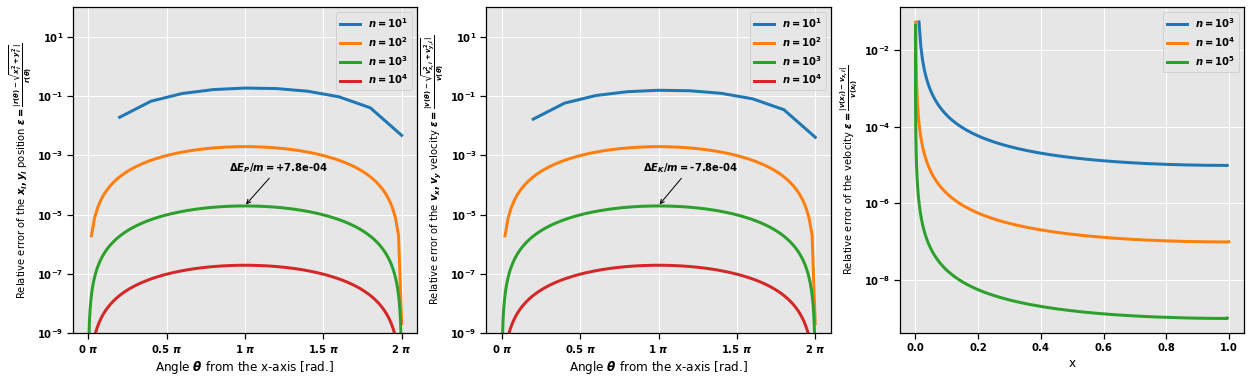
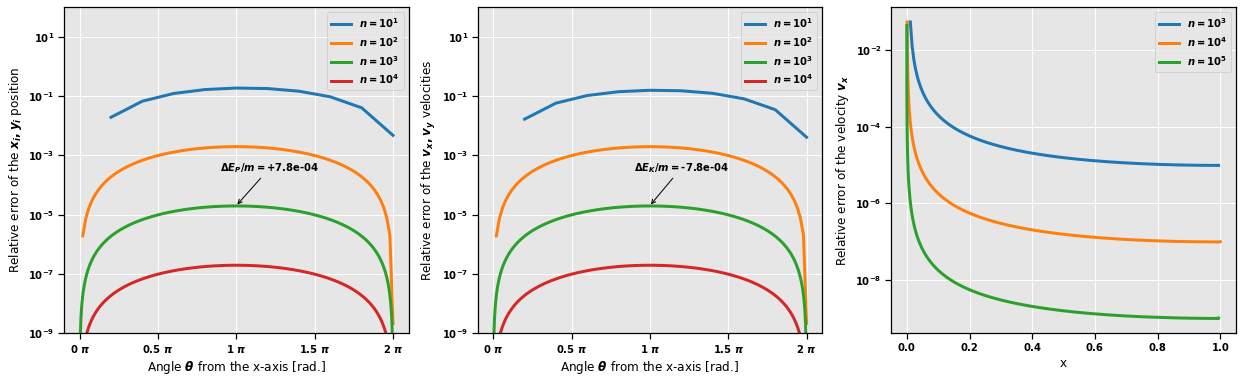
report done

diff --git a/project3/report/project3.tex b/project3/report/project3.tex
@@ -43,30 +43,33 @@
 % - What have you done to solve this 
 % - Main Results 
 % - The implications
+Analytic solutions to $n$-body gravitational problems are only possible in rare exceptions or with simplifications for $n \ge 3$. To study these problems we therefore need efficient and accurate numerical methods. In this report we investigate the Velocity Verlet method, which has a truncation error $O(h^3)$, and which, with 7 FLOPs per axis and iteration, is numerically efficient. Crucially, this method is also symplectic (energy conserving). We develop an object-oriented solver which we verify by reproducing the orbits of the Solar System, and use it to conduct numerical experiments. 
 
+For circular orbits, the Velocity Verlet method gives reliable results for $10^2$-$10^3$ integration points per rotation, while for elliptic orbits, $10^3$-$10^4$ should be used. Mechanical energy and angular momentum are conserved with high accuracy, with relative error often down to $10^{-6}$ if the orbits are stable. However, accuracy is dependent on angular and radial position, and is different for position and velocity. Conservation of energy and angular momentum serves as a reliable indicator of numerical stability.
 
+The numerical experiments in this report show Earth's fluctuating orbit when simulated in a Sun-Earth-Jupiter system with various masses of Jupiter. With Jupiter at 100 times it's actual mass, Earth's orbit is stable, but fluctuates in a band approximately 0.15-0.20 AU wide. At 1000 times its actual mass, Earth leaves its orbit around the Sun and starts to swirl around Jupiter. We also show that the model correctly predicts orbit eccentricity, and that closed elliptic orbits are a feature of the inverse-square radius to force relationship in Newton's gravitational law. Conservation of mechanical energy and angular momentum is still preserved in this alternate domain, however. Our model also correctly reproduces the perihelion precession of Mercury at 43 arc seconds per century when we introduce a general relativistic correction to Newton's gravitational law. This requires a very high accuracy, at $10^7$ integration points per rotation. The error of the reference calculation without the general relativistic error is 0.22 arc seconds per century.
+
+Visit my GitHub repository at \url{https://github.com/fonstelien/FYS4150/tree/master/project3} for source code and raw data from the numerical simulations.
 \end{abstract}
 
 
 \section{Introduction} \label{intro}
 %When you write the introduction you could focus on the following aspects
 % - Motivate the reader, the first part of the introduction gives always a motivation and tries to give the overarching ideas
-For all its beauty, the limits of differential calculus quickly becomes apparent when it comes to the study of planetary movements. The classic $n$-body problem for describing the movement of bodies in interacting gravitational fields can be perfectly accounted for with closed form for $n=2$, but problems arise already at $n=3$. Hence the need for numerical methods, and in this report we will develop an $n$-body \textit{solver} based on the \textit{Velocity Verlet} algorithm \cite{fys4150-notes}. 
+For all its beauty, the limits of differential calculus quickly becomes apparent when it comes to the study of planetary movements. The classic $n$-body problem for describing the movement of bodies in interacting gravitational fields can be perfectly accounted for at $n=2$, but problems arise already at $n=3$. Hence the need for numerical methods.
 
 % - What I have done
+In this report we will develop an $n$-body \textit{solver} for gravitational problems based on the \textit{Velocity Verlet} algorithm \cite{fys4150-notes}. We will use the solver to perform numerical experiments to answer questions about how a planet's orbit around the Sun is affected by the presence of other planets, how the orbit would be affected by a \textit{change} in Newton's gravitational law, and what this tells us about the \textit{accuracy} of that law. We will also touch on general relativity when we reproduce the perihelion precession of Mercury with high accuracy, a famous test of general relativity \cite{fys4150-p3}. The validity of the results must always be validated against the preservation of energy and angular momentum, which we keep a keen eye on all along.
+
 % - The structure of the report, how it is organized etc
-Lets first revisit some of the basics of celestial mechanics, which will serve as a mathematical background for our development of the algorithms.
+Section \ref{methods} starts by looking at the most basic numerical method of all for solving differential equations involving the movement;  Euler's forward method. Then we introduce the Velocity Verlet method and see how it outperforms Euler's even if computationally more demanding. We also give a framework for an object-oriented implementation of the Velocity Verlet algorithm. Then, in Section \ref{results}, we investigate our model's performance and present the results of the experiments, before discussing their interpretation and wrapping up with some suggestions for further studies in Section \ref{conclusion}. But first, in the next section, let us revisit some of the basics of celestial mechanics, which will serve as the mathematical background for the testing of the algorithms and the interpretation of the results.
 
-
-
-
-
-\section{Background: Celestial Mechanics} \label{celestial-mechanics}
-It was \textit{Johannes Kepler} (1571-1630) who first described the planets' orbits correctly. By observation he found that all planets move in elliptic orbits with the sun at one of the two foci; and that the square of their periods $T$ are directly proportional to the cube of their semi-major axis $a$ \cite{hibbeler2001} (Kepler's first and third laws, respectively). Perfect harmony prevailed, it seemed:
+\section{Celestial Mechanics: Kepler and Newton's Laws} \label{celestial-mechanics}
+It was \textit{Johannes Kepler} (1571-1630) who first described the planets' orbits correctly. By observation, he found that all planets move in elliptic orbits with the sun at one of the two foci; and that the square of their periods $T$ are directly proportional to the cube of their semi-major axis $a$ \cite{hibbeler2001} (Kepler's first and third laws, respectively);
 \begin{equation}
 	T^2 \propto a^3.
 \end{equation}
-Later, \textit{Isaac Newton} (1642-1727) would describe with his gravitational law the mutual attractive force $F_G$ between two bodies of mass $M, m$ at distance $r$ apart as
+Perfect harmony prevailed, it seemed. Later, \textit{Isaac Newton} (1642-1727) would describe with his gravitational law the mutual attractive force $F_G$ between two bodies of mass $M, m$ at distance $r$ apart as
 \begin{equation} \label{newton-grav}
 	F_G = \frac{GMm}{r^2},
 \end{equation}
@@ -106,31 +109,31 @@ We note that in a circular orbit, $E_K = \frac{1}{2} E_P$.
 
 The last of Kepler's observations was that the planets move in their orbits such that the line joining it to the sun sweeps over equal areas in equal intervals of time, whatever the line's length. Again, see \cite{hibbeler2001}. This observation of constant \textit{areal velocity}, called Kepler's second law, can be written
 \begin{equation}
-	\frac{dA}{dt} = \frac{1}{2} r^2 \frac{d\theta}{dt} = const. \quad.
+	\frac{dA}{dt} = \frac{1}{2} r^2 \frac{d\theta}{dt} = const.
 \end{equation}
-It would also be explained as a consequence of Newton's discoveries. The \textit{angular momentum} of a body with mass $m$ moving at velocity $\mathbf{v}$ at distance $\mathbf{r}$ from a fixed point $O$ is defined as $\mathbf{L}_O = \mathbf{r} \times m\mathbf{v}$. Now, with $\mathbf{r}$ and $\mathbf{v}$ at an angle $\phi$ to each other, $|\mathbf{r} \times \mathbf{v}| = rv \sin \phi$; and the component of $\mathbf{v}$ perpendicular to $\mathbf{r}$ is the body's velocity on a circular path about $O$, so $v \sin \phi = r \frac{d\theta}{dt}$. Bringing this all together, we get that Kepler's second law foresaw the conservation of angular momentum:
+This would also be explained as a consequence of Newton's discoveries. The \textit{angular momentum} of a body with mass $m$ moving at velocity $\mathbf{v}$ at distance $\mathbf{r}$ from a fixed point $O$ is defined as $\mathbf{L}_O = \mathbf{r} \times m\mathbf{v}$. Now, with $\mathbf{r}$ and $\mathbf{v}$ at an angle $\phi$ to each other, $|\mathbf{r} \times \mathbf{v}| = rv \sin \phi$; and the component of $\mathbf{v}$ perpendicular to $\mathbf{r}$ is the body's velocity on a circular path about $O$, so $v \sin \phi = r \frac{d\theta}{dt}$. Bringing this all together, we get that Kepler's second law foresaw the conservation of angular momentum:
 \begin{equation}
 	\mathbf{L}_O = L_O\mathbf{e} = (mrv \sin \phi )\mathbf{e} = mr^2 \frac{d\theta}{dt} \mathbf{e} = 2m \frac{dA}{dt} \mathbf{e} = \text{\textit{const. vector}} \quad,
 \end{equation}
-where $\mathbf{e}$ is a unit vector. We should note that a the conservation of angular momentum of a body holds for any trajectory, but that it's relation to Kepler's second law only holds for circular or closed elliptic orbits.
+where $\mathbf{e}$ is a unit vector. We should note that the conservation of angular momentum of a body holds for any trajectory, but that it's relation to Kepler's second law only holds for circular or closed elliptic orbits.
 
 \section{Numerical Methods for Celestial Mechanics} \label{methods}
 % - Describe the methods and algorithms
 % - You need to explain how you implemented the methods and also say something about the structure of your algorithm and present some parts of your code
 % - You should plug in some calculations to demonstrate your code, such as selected runs used to validate and verify your results. The latter is extremely important!! A reader needs to understand that your code reproduces selected benchmarks and reproduces previous results, either numerical and/or well-known closed form expressions.
 
-We will start with developing a solver for the simplified 2-body problem with a fixed Sun at the center and a planet moving around it. We will use this for proving the correctness our algorithm, as well as studying its efficiency with regards to CPU time and accuracy. Then, we will proceed to solving the general $n$-body problem in an object-oriented manner. At the end of this section, we briefly discuss the inclusion of a general relativistic factor for calculating the slow rotation of the perihelion of Mercury.
+We will start with developing a solver for the simplified 2-body problem with a fixed Sun at the center and a planet moving around it. We will use this for proving the correctness our algorithm, as well as studying its efficiency with regards to CPU time and accuracy. Then, we will proceed to solving the general $n$-body problem in an object-oriented manner. 
 
 \subsection{Sun-Earth System with Fixed Sun} \label{sun-earth}
-The location at time $t+h$ of an body moving along a straight line with non-constant velocity $v = v(t)$, is given by the Taylor expansion
+The position at time $t+h$ of a body moving along a straight line with velocity $v = v(t)$, is given by the Taylor expansion
 \begin{equation}
 	x(t+h) = x(t) + hv(t) + O(h^2),
 \end{equation}
-where $O(h^2)$ is the truncation error. The velocity $v(t+h)$ at the new position $x(t+h)$, is again given by a new Taylor series
+where $O(h^2)$ is the truncation error. The velocity $v(t+h)$ at the new position $x(t+h)$, is again given by a new Taylor expansion
 \begin{equation}
-	v(t+h) = v(t) + h \frac{dv}{dt}(t) + O(h^2) \quad \text{, where} \quad \frac{dv}{dt}(t) = a(t).
+	v(t+h) = v(t) + h \frac{dv}{dt}(t) + O(h^2) \text{, where} \quad \frac{dv}{dt}(t) = a(t).
 \end{equation}
-We discretize time in the time interval $[t, t + \Delta t]$ by letting $t_i = t + ih$, where $i \in [0,n]$ and $h = \Delta t/n$. We then get the discrete equations for the body's motion as
+We discretize time in the time interval $[t, t + \Delta t]$ by letting $t_i = t + ih$, where $i \in [0,n]$ and $h = \Delta t/n$. The discrete equations for the body's motion are then given as
 \begin{equation}
 \begin{aligned}
 	x_{i+1} &= x_i + hv_i \\
@@ -139,9 +142,9 @@ We discretize time in the time interval $[t, t + \Delta t]$ by letting $t_i = t 
 \end{equation}
 
 
-With these equations, called \textit{Euler's forward method}, we can can iteratively calculate the object's movement along the $x$ axis, and expanding to three dimensions yields corresponding equations for movement along the $y$ and $z$ axes. 
+With these equations, called \textit{Euler's forward method}, we can can iteratively calculate the object's movement along the $x$ axis. These are expanded to three dimensions with corresponding equations for movement along the $y$ and $z$ axes. 
 
-To apply Euler's forward method on Newton's gravitational law (\ref{newton-grav}), we must plug in Newton's gravitational law (\ref{newton-grav}) for the acceleration. On vector form and in spherical coordinates the acceleration is given as
+To apply Euler's forward method on Newton's gravitational law (\ref{newton-grav}), we plug in Equation (\ref{newton-grav}) for the acceleration. On vector form and in spherical coordinates the acceleration is given as
 \begin{equation} \label{a-spherical}
 	\mathbf{a}_i = \frac{GM}{r_i^3} \mathbf{r}_i.
 \end{equation}
@@ -151,7 +154,7 @@ where $M$ is the mass of the attracting body. In the Solar System it is convenie
 \end{equation}
 
 
-Now, the with cartesian representation of $\mathbf{a}_i$, we get the full set of forward Euler equations in three dimensions for solving the problem of planetary movement about the Sun, where the Sun is kept fixed at the center:
+Now, the with cartesian representation of $\mathbf{a}_i$, we get the full set of forward Euler equations in three dimensions for solving the problem of planetary movement about the Sun, where the Sun is kept fixed at the center;
 \begin{equation} \label{euler-fwd}
 \begin{aligned}
 	&x_{i+1} = x_i + hv_{x,i} ,\quad v_{x,i+1} = v_{x,i} - 4\pi^2h\frac{x_i}{r_i^3} ,\\
@@ -235,7 +238,7 @@ where $r_i = \sqrt{x_i^2 + y_i^2 + z_i^2}$. See Listing \ref{lst:verlet-nonOO} b
 	END DO
 \end{lstlisting}
 
-Comparing the Verlocity Verlet method with Euler's Forward method, we see that Euler's is more efficient with regards to FLOPs (FLoting point OPersations) per iteration. Euler needs one multiplication and one addition for each position $x_i, y_i, z_i$; plus two multiplications and one subtraction for each velocity $v_{x,i}, v_{y,i}, v_{z,i}$. 15 FLOPs in total. However, $r_i$ and the factor $r_i^{-3}$ must be calculated once per iteration. This involves square root and floating point divide operations, which are much more expensive than regular FLOPs and are not pipelined properly in the CPU \cite{hager2010introduction}. For Velocity Verlet, total number of FLOPs is $3+4=7$, and even if the method has both $r_i, r_i^{-3}$ and $r_{i+1}, r_{i+1}^{-3}$ terms, we store these between the iterations such that the most expensive operations are done only once, as we saw in Listing \ref{lst:verlet-nonOO}.
+Comparing the Verlocity Verlet method with Euler's Forward method, we see that Euler's is more efficient with regards to FLOPs (FLoting point OPersations) per iteration. Euler needs one multiplication and one addition for each position $x_i, y_i, z_i$; plus two multiplications and one subtraction for each velocity $v_{x,i}, v_{y,i}, v_{z,i}$. 15 FLOPs in total. However, $r_i$ and the factor $r_i^{-3}$ must be calculated once per iteration. This involves square root and floating point divide operations, which are much more expensive than regular FLOPs and are not pipelined properly in the CPU \cite{hager2010introduction}. For Velocity Verlet, total number of FLOPs is $(3+4) \cdot 3=21$, and even if the method has both $r_i, r_i^{-3}$ and $r_{i+1}, r_{i+1}^{-3}$ terms, we store these between the iterations such that the most expensive operations are done only once, as we saw in Listing \ref{lst:verlet-nonOO}.
 
 CPU time for both Euler Forward and Velocity Verlet has a linear relation to problem size, as we see in Table \ref*{tab:cpu-time}. As expected, Euler is the fastest, but more than what we can explain by the FLOPs ratio between the algorithms. A possible explanation is the square root operations, which are bound to make trouble with pipelining. Another possibility is the use of \lstinline|C++ Armadillo| classes. In these completely CPU bound algorithms, these may cause some of the additional variables in Verlet to be stored outside of CPU register, meaning that they must be loaded from L1 cache.
 
@@ -295,17 +298,13 @@ For planet $p$ we then get the following set of equations for solving the $n$-bo
 \end{equation}
 and correspondingly for the $y$ and $z$ axes.
 
-As these over-crowded sub- and superscripts reveal, we need more than a few equations to completely describe an $n$-body system. There are 8 planets in the solar system, and counting the Sun and Pluto we have 60 equations to solve. To keep track of this all, we have two usual strategies which each have their merit. The first is an array-based scheme where we allocate an array of length $n$ for each variable, and keep track of the planets that way. This would probably be the most computationally efficient with regards to pipelining in the CPU. The other is object orientation, which is probably the simplest to implement, and which we will use here.
+As these over-crowded sub- and superscripts reveal, we need more than a few equations to completely describe an $n$-body system. There are 8 planets in the solar system, and counting the Sun and Pluto we have 60 equations to solve. To keep track of this all, we can pick one of two strategies which each have their merit. The first is an array-based scheme where we allocate an array of length $n$ for each variable, and keep track of the planets that way. This would probably be the most computationally efficient with regards to pipelining in the CPU. The other is object orientation, which is probably the simplest to implement and which we will use here.
 
-In the object oriented approach, each planet and the Sun will be an object. The \lstinline|Planet| object should keeping its static data, limited to its mass relative to the Sun in this case, and keep the state of its position and velocity. It should also provide services which enable us to update the position and velocity states and let us query key properties which relate to this object only, like kinetic energy and angular momentum. An interface framework for implementing a \lstinline|Planet| object for the Velocity Verlet algorithm is given in Listing \ref{lst:verlet-planet-interface}.
+In the object oriented approach, each planet and the Sun will be an object. The \lstinline|Planet| object should keep its static data, limited to its mass relative to the Sun in this case, and keep the state of its position and velocity. It should also provide services which enable us to update the position and velocity states and let us query key properties which relate to this object only, like kinetic energy and angular momentum about the reference center. An interface framework for implementing a \lstinline|Planet| object for the Velocity Verlet algorithm is given in Listing \ref{lst:verlet-planet-interface}.
 
-Having defined the \lstinline|Planet| object, we next define an object for keeping track of all the \lstinline|Planet|s and calling on their services for updating state. This \lstinline|Solver| object should thus provide a data structure for keeping the \lstinline|Planet| collection as well as services to add \lstinline|Planet|s to the collection and initiating the Velocity Verlet algorithm. It should also provide services which let us query key properties which extend beyond the single \lstinline|Planet| object, like potential energy, as well as total energies and angular momentum. See Listing \ref{verlet-solver-interface} for an interface framework.
+Having defined the \lstinline|Planet| object, we next define an object for keeping track of all the \lstinline|Planet|s and calling on their services for updating state. This \lstinline|Solver| object should thus provide a data structure for keeping the \lstinline|Planet| collection as well as services to add \lstinline|Planet|s to the collection and initiating the Velocity Verlet algorithm. It should also provide services which let us query key properties which extend beyond the single \lstinline|Planet| object, like potential energy, as well as total energies and angular momentum. See Listing \ref{lst:verlet-solver-interface} for an interface framework.
 
-The only interesting service to take a closer look at in the \lstinline|Solver| object is \lstinline|solve()|. The Velocity Verlet algorithm is executed in much the same way as for the Sun-Earth case in Listing \ref{lst:verlet-nonOO}, but extended to looping over all \lstinline|Planet|s. See Listing \ref{lst:solve} for a framework.
-
-We test our object-oriented model on the Solar System. To get a stable solution, we need to ensure that the initial positions and velocities of the planets correspond to zero total momentum and where the total kinetic and potential energies correspond to closed elliptic orbits. \textit{NASA Jet Propulsion Laboratory} \cite{nasa-jpl} publishes highly accurate live data on the position and velocity of the objects in the Solar system, which we use to build our model. 
-
-Figure \ref{fig:solar-system} shows a simulation of the Sun and the planets in the Solar System over 250 years, which is a little over 1 rotation for Pluto (included even if strictly not defined as a planet). The model reproduces the elliptic orbits and preserves energy and angular momentum. We also recognize the partly overlapping orbits of Neptune and Pluto.
+Apart from \lstinline|total_potential_energy()|, where we must be careful to count the potential energies only once, the only interesting service to take a closer look at in the \lstinline|Solver| object is \lstinline|solve()|. The Velocity Verlet algorithm is executed in much the same way as for the Sun-Earth case in Listing \ref{lst:verlet-nonOO}, but extended to looping over all \lstinline|Planet|s. See Listing \ref{lst:solve} for a framework.
 
 \begin{lstlisting}[caption={Planet object interface for Velocity Verlet algorithm solving the $n$-body problem.},label={lst:verlet-planet-interface}] [!ht]
 	BEGIN OBJECT Planet
@@ -386,10 +385,14 @@ Figure \ref{fig:solar-system} shows a simulation of the Sun and the planets in t
 	END FUNCTION
 \end{lstlisting}
 
+We test our object-oriented model on the Solar System. To get a stable solution, we need to ensure that the initial relative positions and velocities of the planets correspond to closed elliptic orbits and that the total momentum of the Solar System is zero. \textit{NASA Jet Propulsion Laboratory} \cite{nasa-jpl} publishes highly accurate live data on the position and velocity of the objects in the Solar system, where these quantities naturally are preserved, which we use to build our model. 
+
+Figure \ref{fig:solar-system} shows a simulation of the Sun and the planets in the Solar System over 250 years, which is a little over 1 rotation for Pluto (included even if strictly not defined as a planet). The model reproduces the elliptic orbits and preserves energy and angular momentum. We also recognize the partly overlapping orbits of Neptune and Pluto in the middle pane.
+
 \begin{figure}[!htb]
 	\centering
 	\includegraphics[width=1\linewidth]{solar-system.png}
-	\caption{Solar system simulated using our object-oriented Velocity Verlet solver, with 1000 iterations per year over 250 years (a little more than 1 rotation for Pluto). Simulation was run with non-fixed Sun. We see that the model reproduces distinct elliptic orbits of the planets, but that for the innermost planets, which are rotating fastest, the ellipses are not completely closed (left). To the right, we see that the model preserves energy and total angular momentum with high accuracy. Annotations are deviations form initial values, and planetary units are on a Sun mass-AU-year base. Initial states collected from \cite{nasa-jpl}, with states as of 2020-Oct-15 at 00:00:00.0000.}
+	\caption{Solar system simulated using our object-oriented Velocity Verlet solver, with $10^4$ iterations per year over 250 years (a little more than 1 rotation for Pluto). Simulation was run with non-fixed Sun. We see that the model reproduces distinct elliptic orbits of the planets in the middle and to the left. To the right, we see that the model preserves energy and total angular momentum with high accuracy. Annotations are relative error from initial values, and planetary units are on a Sun mass-AU-year base. Initial states collected from \cite{nasa-jpl}, with states as of 2020-Oct-15 at 00:00:00.0000.}
 	\label{fig:solar-system}
 \end{figure}
 
@@ -403,30 +406,34 @@ Figure \ref{fig:solar-system} shows a simulation of the Sun and the planets in t
 After having developed an object-oriented Velocity Verlet solver for the $n$-body problem in the former section, we may now move on and do numerical experiments with our model. But before we do that, we should try to develop a qualitative feeling about the model's accuracy and stability.
 
 \subsection{Accuracy and Stability of the Velocity Verlet Solver}
-In Figures \ref{fig:verlet-euler} and \ref{fig:verlet-euler} we saw that the accuracy of the energy balance and angular momentum is high even for relatively low large time step $h$. The explanation for that is the $O(h^3)$ truncation error of the Velocity Verlet method. However, as we see in Figure \ref{fig:error}, we may not assume that the position and velocity accuracies are constant in three-dimensional space. In the example shown in the left and middle of Figure \ref{fig:error}, Earth is rotated once about the Sun in a circular orbit starting at $(x,y,z)=(1,0,0)$, with various time step. We see that both the error in the position and in the velocity varies with rotational angle $\theta$, but again that the sum of the error, when translated to energy, zeros out.
+In Figure \ref{fig:verlet-euler} we saw that the accuracy of the energy balance and angular momentum is high even for relatively large time step $h$. The explanation for that is the $O(h^3)$ truncation error of the Velocity Verlet method. However, as we see in Figure \ref{fig:error}, we may not assume that the position and velocity accuracies are constant in three-dimensional space. In the example shown in the left and middle of Figure \ref{fig:error}, Earth is rotated once about the Sun in a circular orbit starting at $(x,y,z)=(1,0,0)$, with various time step. We see that both the error in the position and in the velocity varies with rotational angle $\theta$, but again that the sum of the error, when translated to energy, zeros out.
 
-To the right in Figure \ref{fig:error}, a planet is put at $(x,y,z)=(1,0,0)$ with at stand still, and we see the error in the velocity as it accelerates against the Sun. As the planet moves towards the sun, the error in the velocity grows steeply. When the planet is close to the sun, at some point the $hv_{x,i}$ term in $x_{i+1}$ may also cause a step-through of the gravitational center, causing a discontinuity. The result is that the planet shoots off into space.
+To the right in Figure \ref{fig:error}, a planet is put at $(x,y,z)=(1,0,0)$ with zero velocity, and we see the error in the velocity as it accelerates against the Sun. As the planet moves towards the sun, the error in the velocity grows steeply. When the planet is close to the sun, at some point the $hv_{x,i}$ term in $x_{i+1}$ may also cause a step-through of the gravitational center, causing a discontinuity. The result is that the planet shoots off into space.
 
 \begin{figure}[!htb]
 	\centering
 	\includegraphics[width=1\linewidth]{error.png}
-	\caption{Relative error of the Velocity Verlet algorithm depending on location for various time steps. To the left we see the error in the position for Earth following a circular orbit of radius 1.0. Start conditions were \lstinline|pos = \{1.0, 0.0, 0.0\}| and \lstinline|vel = \{0.0, 2*PI, 0.0\}|, and the simulation is run for 1.0 rotation. In the middle we see the same, but for the velocity. We see that the kinetic and potential energy error cancel each outher out. To the right we see the velocity error of a planet accelerating from standstill towards the sun. Close to the sun, the Velocity Verlet method becomes unstable. Initial conditions were \lstinline|pos = \{1.0, 0.0, 0.0\}| and \lstinline|vel = \{0.0, 0.0, 0.0\}| with fixed sun.}
+	\caption{Relative error of the Velocity Verlet algorithm depending on location for various time steps. To the left we see the error in the position for Earth following a circular orbit of radius 1.0. $\varepsilon = |1 - \sqrt{x_i^2 + y_i^2}|$. Start conditions were \lstinline|pos = \{1.0, 0.0, 0.0\}| and \lstinline|vel = \{0.0, 2*PI, 0.0\}|, and the simulation is run for 1.0 rotation. In the middle we see the same, but for the velocity. We see that the kinetic and potential energy error cancel each outher out. $\varepsilon = |2\pi - \sqrt{v_{x,i}^2 + v_{y,i}^2}|/2\pi$. To the right we see the velocity error of a planet accelerating from standstill towards the sun. Close to the sun, the Velocity Verlet method becomes unstable. Initial conditions were \lstinline|pos = \{1.0, 0.0, 0.0\}| and \lstinline|vel = \{0.0, 0.0, 0.0\}| with fixed sun. $\varepsilon = |v(x_i)-v_{x,i}|/v(x_i)$.}
 	\label{fig:error}
 \end{figure}
 
 \subsection{Preservation of Mechanical Energy and Angular Momentum: Earth's Orbit with a Super Massive Jupiter}
-We saw in Section \ref{celestial-mechanics} that a planet's mechanical energy and angular momentum is preserved during flight. Let us put our model to the test by introducing a super massive Jupiter in the Sun-Earth System, and see how it preserves these key quantities. Jupiter's mass in the Solar System is a little less than one thousandth of the Sun's, so it would be interesting to see how much larger it may be before Earth's orbit is influenced significantly. 
+We saw in Section \ref{celestial-mechanics} that a planet's mechanical energy and angular momentum is preserved during flight. Let us put our model to the test by introducing a super massive Jupiter in the Sun-Earth System, and see how it preserves these key quantities. Jupiter's mass in the Solar System is a little less than one thousandth of the Sun's, so it would be interesting to see how much larger it may be before Earth's orbit is influenced significantly, and how this measures up to Kepler's first law, which states that all planets' orbits are elliptic.
 
-In Figure \ref{fig:massive-jupiter} we have simulated the Sun-Earth-Jupiter system, with varying multiples of Jupiter's mass. Sun was kept fixed at the center. We see that for 1x and 10x Jupiter masses, Earth's orbit is largely undisturbed, to be a little delayed in the latter due to a gentle radial fluctuation in the trajectory. This tendency is more pronounced for 100x Jupiter masses, but still the orbit is largely regular, and we see that the solver performs well. Mechanical energy and angular momentum are preserved with high accuracy. Another 10-fold increase causes trouble, however. Earth is quickly thrown out of its regular orbit, getting dangerously close to the sun, where at around 5 years, the model breaks down. Earth then swirls around Jupiter for some 20 years, before again being thrown against the sun, and then shoots off into space. The simulation was run with $10^3$ integration points per year in all cases. Increasing to $10^4$ or even $10^5$ did not change the stability significantly.
+In Figure \ref{fig:massive-jupiter} we have simulated the Sun-Earth-Jupiter system, with varying multiples of Jupiter's mass. Sun was kept fixed at the center. We see that for 1x and 10x Jupiter masses, Earth's orbit is largely undisturbed, only a little delayed in the latter due to a gentle radial fluctuation in the trajectory. This tendency is more pronounced for 100x Jupiter masses. We see that the orbit still is regular, but that it fluctuates within a band of about 0.15-0.20 AU. As a consequence, Kepler's first law does not hold in this experiment. 
+
+Up until 100x Jupiter, mechanical energy and angular momentum are preserved with high accuracy, meaning that the solver performs well.
+
+Another 10-fold increase to 1000x Jupiter causes trouble, though. As we see to the far right in Figure \ref{fig:massive-jupiter}, Earth is quickly thrown out of its regular orbit, getting dangerously close to the sun, where at around 5 years, the model breaks down. Earth then swirls around Jupiter for some 20 years, before again being thrown against the sun, and then shoots off into space. The simulation was run with $10^3$ integration points per year in all cases. Increasing to $10^4$ or even $10^5$ did not change the stability significantly.
 
 \begin{figure}[!htb]
 	\centering
 	\includegraphics[width=1\linewidth]{massive-jupiter.png}
-	\caption{Sun-Earth-Jupiter system with varying sizes of Jupiter with Velocity Verlet. In the top row we see the Earth's worsening orbit for increasing mass of Jupiter, before Earth's orbit completely breaks down. In the middle row we see that up until 100x Jupiter mass, Earth's angular momentum and energy balance are both stable. For 1000x Jupiter mass, everything breaks down when Earth comes close to first the Sun, and then starts swirling around Jupiter, before it takes off into space. Note the $10^{-5}$ Sun-masses-AU-year scaling. Initial conditions for Earth were \lstinline|pos = \{1.0, 0.0, 0.0\}| and \lstinline|vel = \{0.0, 2*PI, 0.0\}|, and for Jupiter \lstinline|pos = \{-5.2, 0.0, 0.0\}| and \lstinline|vel = \{0.0, -2*PI/SQRT(5.2), 0.0\}|, giving both a counter-clockwise circular rotation. Sun was fixed. 1000 integration points per year in all cases.}
+	\caption{Sun-Earth-Jupiter system with varying sizes of Jupiter with Velocity Verlet. In the top row we see the Earth's worsening orbit for increasing mass of Jupiter, before Earth's orbit completely breaks down. In the 100x Jupiter pane in the top row, the shaded area is the band within which Earth's orbit fluctuates, while the thick line shows the trajectory in the last year. In the bottom row we see that up until 100x Jupiter mass, Earth's angular momentum and energy balance are both stable. For 1000x Jupiter mass, everything breaks down when Earth comes close to first the Sun, and then starts swirling around Jupiter, before it takes off into space. Annotations are relative error from initial values. Note the $10^{-5}$ Sun-masses-AU-year scaling. Initial conditions for Earth were \lstinline|pos = \{1.0, 0.0, 0.0\}| and \lstinline|vel = \{0.0, 2*PI, 0.0\}|, and for Jupiter \lstinline|pos = \{-5.2, 0.0, 0.0\}| and \lstinline|vel = \{0.0, -2*PI/SQRT(5.2), 0.0\}|, giving both a counter-clockwise circular rotation. Sun was fixed. 1000 integration points per year in all cases.}
 	\label{fig:massive-jupiter}
 \end{figure}
 
-\subsection{Orbits: Eccentricity and Forms of the Force}
+\subsection{Newton's Gravitational Law: Eccentricity and Forms of the Force}
 Kepler's third law about the $T^2 \propto a^3$ relationship between period and elliptical axis got its confirmation in the combination of Newton's gravitational law and second law, Equation (\ref{r3-T2}). This again gave us the eccentricity factor $e$, which easily tells us about the shape of an object's trajectory based on initial conditions $r_0, v_0$;
 \begin{equation}
 	e = \frac{r_0 v_0^2}{GM} - 1.
@@ -450,7 +457,7 @@ and the corresponding potential energy $E_P$ is then on the form
 \begin{equation} \label{newton-grav-alt}
 	E_P = \frac{GMm}{(-\beta+1)r^{\beta-1}}.
 \end{equation}
-To reflect this in our Velocity Verlet solver, we update \lstinline|Planet|'s \lstinline|update_acceleration(other_planet)| service, and \lstinline|Solver|'s \lstinline|potential_energy(planet)| service. When we change $\beta$ away from 2, we should still expect that energy and angular momentum are conserved in this alternate physical domain. Kepler's third law should not hold, however, since that is a consequence of Newton's gravitational law in combination with Newton's second law. 
+To reflect this in our Velocity Verlet solver, we update \lstinline|update_acceleration()| service in \lstinline|Planet|, and  \lstinline|potential_energy()| service in \lstinline|Solver|. When we change $\beta$ away from 2, we should still expect that energy and angular momentum are conserved in this alternate physical domain. Kepler's third law should not hold, however, since that is a consequence of Newton's gravitational law in combination with Newton's second law. 
 
 Figure \ref{fig:force} shows just that. As we see to the left, even a slight change of 1/1000th clearly makes the planet drift out of its regular orbit. Increasing $\beta$ to 2.5 gives rise to a beautiful doughnut shape, which however does not seem to be repeating itself. The only closed orbit that seems possible in this domain is the circular, which occurs at Further increasing $\beta$ to 3, we see a collapse of the orbit for $v_0 < 2\pi$. The orbit is circular for $v_0 = 2\pi$, and open for $v_0 > 2\pi$. In all cases of $\beta$, we see that both energy and angular moment are conserved.
 
@@ -477,7 +484,7 @@ where we have assumed $r_0 = 1$. The circular is easily explained, since $r_0 = 
 \begin{figure}[!htb]
 	\centering
 	\includegraphics[width=1\linewidth]{force.png}
-	\caption{Alternate forms of the gravitational force simulated with Velocity Verlet. The inverse square radius, $r^2$, has been replaced by $r^{\beta}$ as in Equation (\ref{newton-grav-alt}). To the upper left we see that even a slight deviation from $\beta=2$ makes closed elliptic orbits impossible. Over 100 years, the orbit has shifted upwards in this case. Upper middle shows a beautiful doughnut shaped orbit, which appears not to be repeating itself. Upper right shows collapse, circular and escape trajectories for $\beta = 3$. The lower row shows that energy and angular momentum are conserved in this alternate physical domain. The exception is the numerical breakdown of the model to the far right in the lower right picture. Initial conditions were \lstinline|pos = \{1.0, 0.0, 0.0\}| and \lstinline|vel = \{0.0, v0, 0.0\}| with fixed sun, and with simulation times as shown on the x-axes of the lower row. $10^4$ integration points per year.}
+	\caption{Alternate forms of the gravitational force simulated with Velocity Verlet. The inverse square radius, $r^2$, has been replaced by $r^{\beta}$ as in Equation (\ref{newton-grav-alt}). To the upper left we see that even a slight deviation from $\beta=2$ makes closed elliptic orbits impossible. Over 100 years, the orbit has shifted upwards in this case. The green line is the orbit in the orbit over 100 years with $\beta=2$. Upper middle, with $\beta=2.5$, shows a beautiful doughnut shaped orbit, which appears not to be repeating itself. Again, the green line shows the orbit with $\beta=2$ in the same time frame. Upper right shows collapse, circular and escape trajectories for $\beta = 3$. The lower row shows that energy and angular momentum are conserved in this alternate physical domain. The exception is the numerical breakdown of the model to the far right in the lower right picture, which corresponds to crashing into the Sun. Initial conditions were \lstinline|pos = \{1.0, 0.0, 0.0\}| and \lstinline|vel = \{0.0, v0, 0.0\}| with fixed sun, and with simulation times as shown on the x-axes of the lower row. $10^4$ integration points per year.}
 	\label{fig:force}
 \end{figure}
 
@@ -486,9 +493,9 @@ A modification to Newton's gravitational law that is real, comes from the genera
 \begin{equation} \label{newton-rel}
 	F_G = \frac{GMm}{r^2} \bigg[1 + \frac{3l^2}{r^2c^2}\bigg],
 \end{equation}
-where $l = |\mathbf{r} \times \mathbf{v}|$ is the per-unit-mass angular momentum, and $c$ is the speed of light. As we saw in the previous section, modifying Newton's gravitational law led to non-closed planetary orbit, and the correction given here will do the same. The observed perturbation of Mercury's perihelion is when other effects like the pull from other planets is taken away is 43 arc seconds per century \cite{fys4150-p3}, and adding this factor to the calculation of acceleration in our Velocity Verlet solver, should reproduce the same result.
+where $l = |\mathbf{r} \times \mathbf{v}|$ is the per-unit-mass angular momentum, and $c$ is the speed of light. As we saw in the previous section, modifying Newton's gravitational law led to non-closed planetary orbit, and the correction given here will do the same. The observed perturbation of Mercury's perihelion, when other effects like the pull from other planets is taken away, is 43 arc seconds per century \cite{fys4150-p3}, and adding this general relativistic factor to the calculation of acceleration in our Velocity Verlet solver should reproduce the same result.
 
-To reproduce this, however, requires 100 years of simulation with extremely high accuracy. To get good performance while we iterate towards the number of integration points per year which gives an acceptable accuracy, we write a special function which performs this special task.
+To reproduce this, however, requires 100 years of simulation with extremely high accuracy. To get good performance while we iterate towards the number of integration points per year which gives an acceptable accuracy, we write a special function which performs this special task. This model considers only two dimensions, since any two-body problem is planar.
 
 Table \ref{tab:perihelion} shows the results for $10^3$ to $10^8$ integration points. We see that the error in the uncorrected calculation drops to about 0.2 arc secs at $10^7$, and the corrected has a perturbation of 43.1 arc seconds, which is the result we wanted. It is also worthwhile to increase the number of integration points another 10-fold to see that the perturbation does not proceed beyond 43 arc seconds. We see that at $n=10^8$, the perturbation is 43.0 arc seconds, indicating that the angle is converging and that the calculation is correct.
 
@@ -512,15 +519,23 @@ Table \ref{tab:perihelion} shows the results for $10^3$ to $10^8$ integration po
 \end{table}
 
 
-
 \section{Discussion and Conclusion} \label{conclusion}
 % - State your main findings and interpretations
 % - Try as far as possible to present perspectives for future work
 % - Try to discuss the pros and cons of the methods and possible improvements
+Euler's Forward method showed us that energy conservation is a requirement when solving differential equations involving motion, and that even if Euler-Cromer deals with this, the higher accuracy of the Velocity Verlet method makes it more suitable, even if it is more computationally demanding. For circular trajectories, Velocity Verlet is reliable even for as little as $10^2$-$10^3$ integration points per rotation, while for elliptic orbits, we need to increase the number to $10^3$-$10^4$. 
 
-n=100 case has flown only (100-1/8) rounds vs 100 for n=1000, but energy is the same. What does that have to say for the energy?
+Its accuracy is not independent of angular or radial position. We saw that it varies both in circular and axial trajectories, and when the distance between two bodies becomes too small, the method breaks down numerically. An interesting observation relating to this which remains to be explained is that when simulating a circular orbit with Velocity Verlet using 100 integration points per year over 100 years, the total distance traveled in Figure \ref{fig:verlet-euler} was short by 1/8th of a year, while both kinetic and potential energy were conserved with high accuracy. The planet seems to have \textit{moved} slower than its velocity. The explanation may lie in that the position and velocity equations have different accuracies.
 
-Suggestions: let sun move in z direction, simulate the forming of a plane structure if planets spread in the z dir. what happens if the sun suddenly disappears. how about twin-star sun? sudden, slow arrival of a jupiter-sized planet from outer space. investigate differences between radial vs circular accuracy, important for the Ek+Ep conservation. In Fig1 seems like movement is slower than velocity, since kinetic energy is preserved, but distance traveled is 1/8th of a rotation short.
+
+The object-oriented Velocity Verlet solver we developed could be used to conduct numerical experiments on $n$-body problems. It correctly reproduced the orbits of the planets in the Solar System, and predicted correctly the trajectories in our experiment with eccentricity. We saw that by controlling the preservation of mechanical energy and angular momentum, the numerical stability could be monitored even when we changed Newton's gravitational law. Our experiments with the gravitational force's relation to radius suggested that closed orbits are a phenomenon of the inverse-square radius.
+
+By introducing a general relativistic correction to Newton's gravitational law, our model reproduced the famous perihelion precession of Mercury with high accuracy. This confirms both that purely elliptic orbits are a mathematical phenomenon, and that the observed precession of Mercury can be explained by the general theory of relativity.
+
+Some interesting experiments which could be conducted with the Velocity Verlet solver are to simulate the formation of new, stable orbits by initiating the planets in other states than they are in the physical world; how the orbits would be affected by the slow arrival of a Jupiter-sized planet from outer space; the and to investigate the planetary orbits around twin stars.
+
+For future work, it would also be interesting to investigate the expansion of the Velocity Verlet solver to include an adaptive time step algorithm. This would both increase computational efficiency, while improve numerical stability. Another interesting possibility is to expand it to electric and magnetic forces, which would render it a powerful tool for solving a wider set of physics problems. 
+
 
 \clearpage
 \bibliographystyle{plain}
